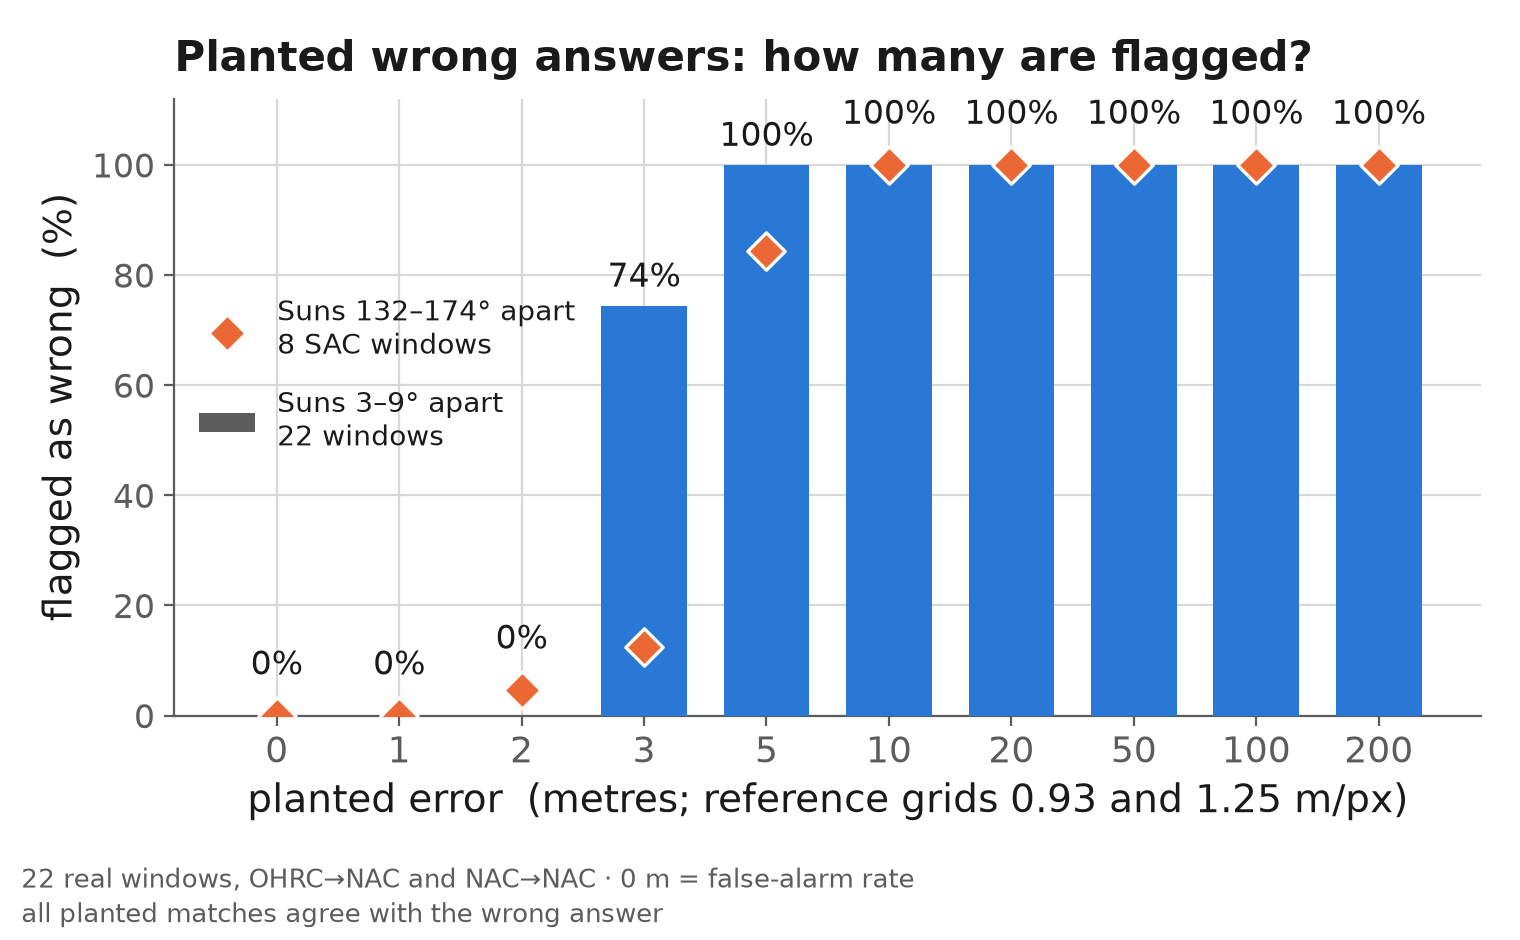
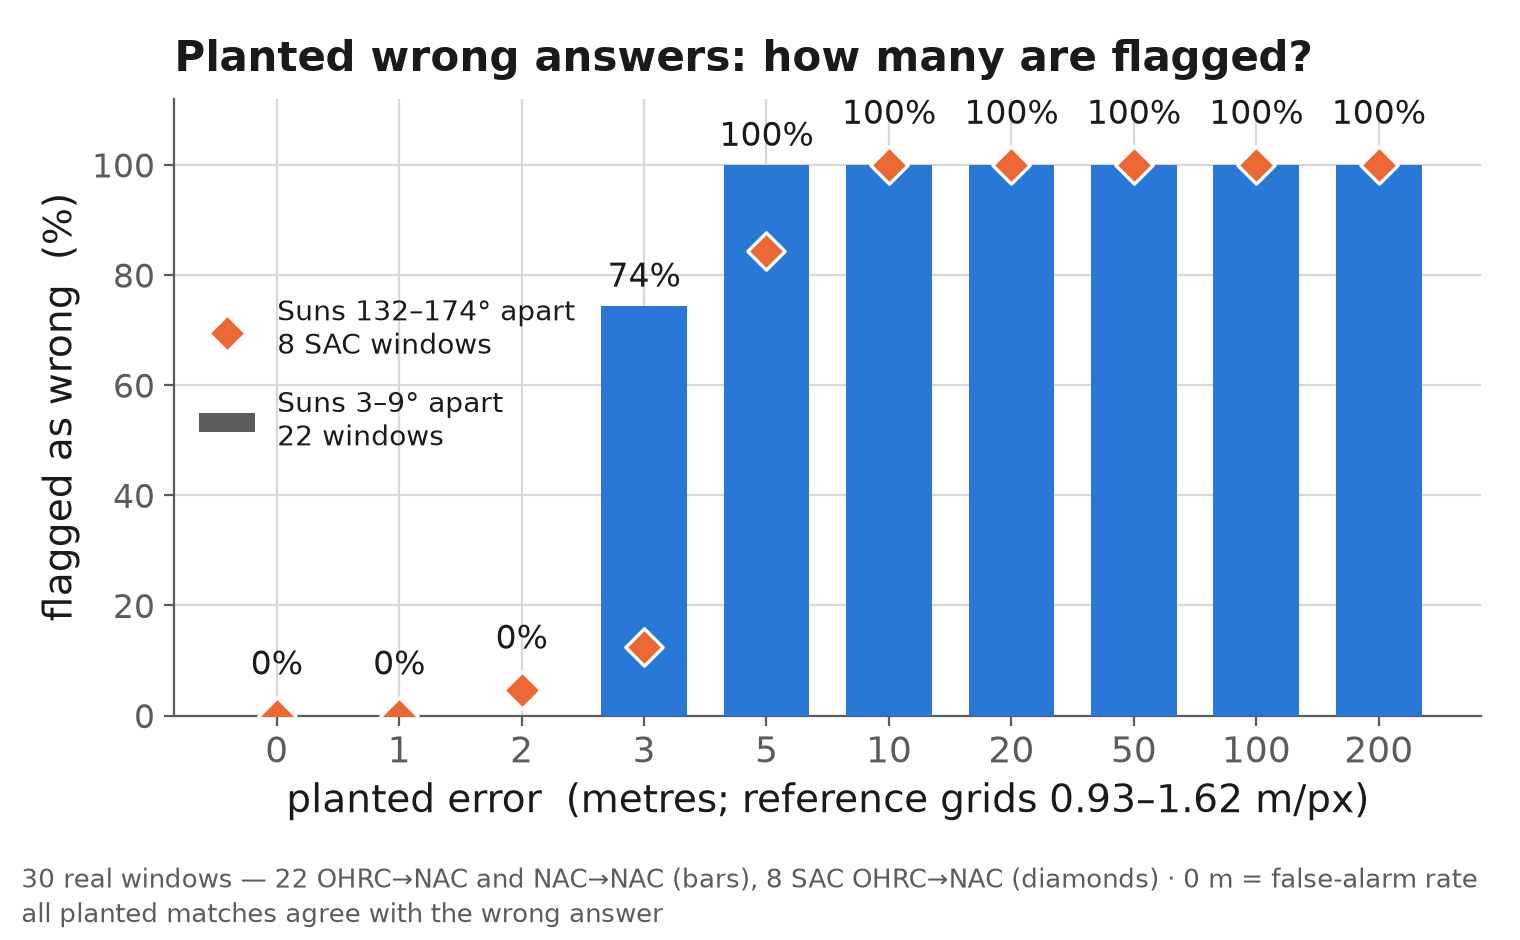
Deck v7: the TMC-2 refusal stated as the standard we hold, not the thing we missed
The PS title names OHRC, TMC and IIRS. We register OHRC well and refuse the
other two; the strongest visible competitor claims both. Slide 4 now says why,
with our own numbers: on OHRC->TMC-2 the matcher kept 6-7 inliers per window at
5-9% coverage, a homography fitted to that handful reports a small in-sample
residual by construction, and the area check measured the alignment 629-1,495 m
wrong and refused all four (REPORT.md:148-151). Six points and their own
residual are not a registration we will ship. Nobody is named; the standard is.

The strategies bullet is now an ordered roadmap - the closer-Sun TMC-2 pass
already identified in the archive, IIRS chained through TMC-2 at intermediate
scale, tile-level transforms with LOLA orthorectification - and says the same
check that refused these will grade the fixes. The pass's azimuth offset is NOT
on the slide: it is not in REPORT.md.

fig6: the x-axis named only the near-Sun bars' grids (0.93 and 1.25) while the
SAC diamonds sit on 1.215 and 1.622 m, and the caption said 22 windows under a
chart of 30. Axis now reads 0.93-1.62; caption counts both populations. Only
fig6 changed - every other figure hash is identical.

Slide 4 body drops to 11 pt and loses its opener (slide 2 already carries 160
windows / 8 pairings) to pay for the argument. AUDIT clean, PDF CHECK clean,
6 pages, 1,094,181 bytes. Evidence untouched.

Changed region(s): [[0.1546, 0.9255, 0.9895, 0.9564], [0.1546, 0.833, 0.9276, 0.8638], [0.0, 0.9255, 0.0309, 0.9564]]

diff --git a/presentation/build_deck.py b/presentation/build_deck.py
@@ -257,40 +257,53 @@ S4 = [
     ("Analysis of the feasibility", 0, True, BLUE),
     # REPORT.md footer, verbatim: "177 registered pairs (160 distinct ground windows)". The two
     # are different counts and the slide must use the noun REPORT uses (claim-checker H1, v4).
-    ("Measured, not designed: 160 distinct ground windows and 8 instrument pairings, on real "
-     "Chandrayaan-2, LRO, Kaguya and LOLA data.", 1, False, INK),
+    
     # "The whole lit overlap, tiled": windows, area, verdicts, held-out median of the accepted
     # and how many are under 3 px (the one that is not is the 316 px window, an inlier-ratio
     # limit of the metric - the deck must not imply 37/37 were all sub-pixel).
-    ("The hardest honest test we could set ourselves — the whole lit, textured overlap of "
-     "one OHRC frame with one NAC at 74 °S, tiled, nothing hand-picked: 37 windows, "
-     "13.1 km², 37/37 accepted, held-out median 0.61 px = 0.57 m on the 0.93 m NAC "
-     "grid. 36 of 37 are under 3 px; the outlier is a low-inlier-ratio window whose image "
-     "evidence (NCC 0.87–0.95) says it is registered, and we print it.", 1, False, INK),
+    ("The hardest honest test we could set: the whole lit, textured overlap of one OHRC frame "
+     "with one NAC at 74 °S, tiled, nothing hand-picked — 37 windows, 13.1 km², 37/37 "
+     "accepted, held-out median 0.61 px = 0.57 m on the 0.93 m NAC grid; 36 of 37 under 3 px, "
+     "and the outlier (a low-inlier-ratio window the image evidence, NCC 0.87–0.95, says is "
+     "registered) is printed, not averaged away.", 1, False, INK),
     # "Sub-pixel accuracy, with the pixel grid named": the synthetic row (0 / 15 deg) and the
     # loop row (px, m, grid). Each names its grid AND its metres (Invariant 2) and says what it
     # is measured against. Loops are consistency, NOT ground accuracy.
         ("Against exact truth (synthetic, LOLA-rendered) on the 60 m grid: 0.086 px = 5.1 m with "
      "the Suns 0–15° apart, degrading to 1.096 px = 65.8 m at 45°. Six three-image loops close "
-     "to 0.107 m on the 1.245 m NAC grid. A "
-     "held-out residual is not ground truth; a loop is consistency, not accuracy.",
+     "to 0.107 m on the 1.245 m NAC grid — consistency, not accuracy, and labelled so.",
      1, False, INK),
     ("Potential challenges and risks", 0, True, ACCENT),
     # "MiLOI" table rows 90-120, 120-180 (all methods); "Real sun-angle sweep" bins 60-90,
     # 90-120. MiLOI's 90 deg is a SUN-VECTOR angle; every other Sun figure on the deck is an
     # azimuth difference, so it is named (claim-checker M4, v4).
     ("The hard band is the field's, not ours: none of the 16 MiLOI pairs with Sun vectors 90° "
-     "or more apart was registered by any method — ours, SIFT, ORB or AKAZE. Our own sweep "
-     "accepts 0 of 12 at 60–120° azimuth, and says so.", 1, False, INK),
+     "or more apart registered under any method — ours, SIFT, ORB or AKAZE. Our sweep accepts "
+     "0 of 12 at 60–120° azimuth, and says so.", 1, False, INK),
     # "Real viewpoint: TMC-2 fore -> aft": held-out median. "... TC -> IIRS": verdict counts.
-    ("Two more we name before a reviewer does: relief parallax is not a homography, so TMC-2 "
-     "fore against aft accepts 1 window of 4; IIRS, 12× coarser at "
-     "89 m per pixel, does not register at all; and OHRC against TMC-2 nadir at 120° of Sun "
-     "azimuth accepts 0 of 4 — every one contradicted and declared.", 1, False, INK),
+    # REPORT.md lines 143-152. The four OHRC -> TMC-2 windows are the strongest thing on this
+    # slide once read the right way round: the matcher DID produce a fit on each (6-7 inliers at
+    # 5-9 % coverage), and a fit like that reports a small in-sample residual by construction -
+    # MAGSAC++ keeps only matches within threshold. The area check measured the alignment
+    # 629-1,495 m wrong. Refusing that is the product working, and it is the standard a judge
+    # should hold every entry to. Said without naming anyone.
+    ("OHRC against TMC-2 nadir, Suns 120° apart: the matcher kept 6–7 inliers per window at "
+     "5–9% coverage — a fit to that handful reports a small in-sample residual by construction. "
+     "The area check measured the alignment 629–1,495 m wrong and refused all four. Six points "
+     "and their own residual are not a registration we will ship; this check is what stops us.",
+     1, True, ACCENT),
+    ("Two more, named before a reviewer does: relief parallax is not a homography, so TMC-2 "
+     "fore against aft accepts 1 window of 4; and IIRS at 12×, 89 m per pixel, does not "
+     "register matched direct.", 1, False, INK),
     ("Strategies for overcoming these challenges", 0, True, BLUE),
-    ("Tile-level local transforms and LOLA orthorectification for relief; a coarse-to-fine "
-     "pyramid and chaining through TMC-2 for the IIRS scale gap. Each answers a failure we "
-     "have already measured.", 1, False, INK),
+    # ops/specs/day_24.md: the one TMC-2 pass over SAC's frame with the Sun near the OHRC's is
+    # identified in PRADAN and is the next run. Its azimuth offset is NOT quoted here because it
+    # is not in REPORT.md (Invariant 1); it goes on the slide the day it is measured.
+    ("Next, in order: the one TMC-2 pass over this frame with the Sun near the OHRC's, already "
+     "identified in the archive; IIRS chained through TMC-2 at intermediate scale instead of "
+     "matched direct at 12×; tile-level local transforms with LOLA orthorectification for "
+     "relief. Each answers a measured failure, and the check that refused these will grade the "
+     "fixes.", 1, False, INK),
 ]
 
 S5 = [
@@ -381,7 +394,7 @@ SLIDES = {
         "fig": ("fig4_pipeline.png", 1.365, 10.6), "fig_top": TOP},
     # Slide 4 is the densest. Narrowing its figure from 5.50 to 5.00 in gives the text column
     # 7.05 in instead of 6.55 - about 8 % more characters per line.
-    4: {"text": [((0.55, TOP, 7.05, BOTTOM - TOP), S4, 14, 11.5)],
+        4: {"text": [((0.55, TOP, 7.05, BOTTOM - TOP), S4, 14, 11)],
         "fig": ("fig5_real_sun_sweep.png", 7.75, 5.00)},
     5: {"text": [(LEFT_COL, S5, 15, 12.5)],
         "fig": ("fig6_trust_real_calibration.png",) + RIGHT_FIG},

diff --git a/presentation/make_figures.py b/presentation/make_figures.py
@@ -746,9 +746,11 @@ def fig_trust_real():
     ds = sorted({float(r["displacement_m"]) for r in rows})
     rate = [np.mean([r["contradicted"] == "True" for r in rows if float(r["displacement_m"]) == d]) for d in ds]
     n = [sum(1 for r in rows if float(r["displacement_m"]) == d) for d in ds]
-    # Every reference grid, not the median: 11 windows are on the 0.931 m NAC grid and 12 on
-    # the 1.245 m one, and the 18 Sep label named only 1.245 (claim-checker, 19 Sep).
-    grids = sorted({float(r["gsd_ref_m"]) for r in rows})
+    # Every reference grid of BOTH populations, as a range. The 19 Sep fix named the two grids
+    # of the near-Sun bars (0.931 / 1.245); the SAC diamonds sit on 1.215 and 1.622 m, so a
+    # judge converting the diamond series with the printed grids got the wrong answer
+    # (claim-checker, 22 Sep).
+    grids = sorted({float(r["gsd_ref_m"]) for r in all_rows})
     fig, ax = plt.subplots(figsize=(7.6, 4.4))
     ax.grid(True, which="major", color=GRID, linewidth=0.8, zorder=0)
     ax.set_axisbelow(True)
@@ -781,8 +783,8 @@ def fig_trust_real():
     ax.set_xticks(xs)
     ax.set_xticklabels([f"{d:g}" for d in ds], fontsize=13)
     ax.set_ylim(0, 112)
-    ax.set_xlabel("planted error  (metres; reference grids " + " and ".join(f"{g:.2f}" for g in grids)
-                  + " m/px)", fontsize=14)
+    ax.set_xlabel(f"planted error  (metres; reference grids {grids[0]:.2f}–{grids[-1]:.2f} m/px)",
+                  fontsize=14)
     ax.set_ylabel("flagged as wrong  (%)", fontsize=14)
     ax.set_title("Planted wrong answers: how many are flagged?",
                  loc="left", fontweight="bold", fontsize=15, pad=10)
@@ -796,8 +798,14 @@ def fig_trust_real():
     except (OSError, ValueError, KeyError):
         n_ground = len(ids)
     n_win = len(ids)
-    wins = f"{n_win} real windows" + (f" ({n_ground} distinct)" if n_ground != n_win else "")
-    fig.text(0.014, 0.008, f"{wins}, OHRC→NAC and NAC→NAC · 0 m = false-alarm rate\n"
+    n_hard = len({r["pair_id"] for r in hard})
+    # The chart plots BOTH populations, so the caption counts both. It said "22 real windows"
+    # under a chart of 30 while slide 2 said 30 (claim-checker, 22 Sep).
+    wins = (f"{n_win + n_hard} real windows — {n_win} OHRC→NAC and NAC→NAC (bars), "
+            f"{n_hard} SAC OHRC→NAC (diamonds)" if hard else
+            f"{n_win} real windows" + (f" ({n_ground} distinct)" if n_ground != n_win else "")
+            + ", OHRC→NAC and NAC→NAC")
+    fig.text(0.014, 0.008, f"{wins} · 0 m = false-alarm rate\n"
              f"all planted matches agree with the wrong answer", fontsize=9.5, color=MUTED,
              linespacing=1.35, va="bottom")
     fig.set_figheight(4.7)

diff --git a/ops/STATUS.md b/ops/STATUS.md
@@ -1,4 +1,23 @@
-# STATUS - 22 September 2026 (Day 25). National round, solo push.
+# STATUS - 22 September 2026 (Day 25), late. National round, solo push.
+
+> **v7: the TMC-2 / IIRS gap, stated as the standard rather than the miss.** The PS title names
+> OHRC, TMC and IIRS; we register OHRC well and refuse TMC-2 (0/4) and IIRS (0/11), and the
+> strongest visible competitor claims both. Slide 4 now says why in their own terms: on
+> OHRC→TMC-2 the matcher kept **6–7 inliers per window at 5–9 % coverage**, a fit to that
+> handful reports a small in-sample residual *by construction*, and the area check measured the
+> alignment **629–1,495 m wrong** and refused all four (`REPORT.md` lines 148–151). The
+> competitor's TMC-2 result is an in-sample RMSE on 5–7 inliers at 5–7 % coverage - the exact
+> regime our check refuses. Nobody is named on the slide; the standard is. The strategies bullet
+> is now an ordered roadmap whose first item is the closer-Sun TMC-2 pass (`ops/specs/day_24.md`).
+> fig6's axis and caption were also fixed (grids 0.93–1.62 across both populations; 30 windows,
+> not 22) - only that figure changed, hash-verified. **1094181 bytes, sha256 `40e2d718…`,
+> `AUDIT: clean`, `PDF CHECK: clean`.** Slide 4 body is 11 pt; that is the floor.
+>
+> **The one evidence move that turns the weak line into a strong one is still yours to make:**
+> the closer-Sun TMC-2 pass needs a PRADAN download (0.6–0.9 GB) only you can do, then ~2 h.
+> Evidence cut-off is Thu 24 Sep 18:00. Either result improves the deck - a second refusal at
+> ~9° of Sun is also publishable. Commands are in `ops/specs/day_24.md` §"The one measurable".
+
 
 > **Deck v6: the pitch pass.** Product work stopped on Samartha's call - the remaining days go to
 > the deck, and gaps get closed after selection. v5 was correct and read like a lab report (278

diff --git a/presentation/DECK_V2_DRAFT.md b/presentation/DECK_V2_DRAFT.md
@@ -19,6 +19,12 @@
 >   figure is 0.62 px on a 1.118 m grid (0.69 m); our best in-sample on that pair is 0.656 px
 >   on a 1.622 m grid (1.06 m). The comparison loses and is not made.
 >
+> - **v7 (22 Sep, late):** slide 4's OHRC→TMC-2 line now carries its own evidence - 6–7
+>   inliers per window, 5–9 % coverage, alignment 629–1,495 m wrong by the area check, all four
+>   refused (`REPORT.md` 148–151) - and the strategies bullet is an ordered roadmap. The
+>   "Measured, not designed: 160 / 8" opener was dropped from slide 4 (slide 2 carries both
+>   figures). fig6: axis grids now 0.93–1.62 (both populations); caption counts 30 windows.
+>
 > PDF as shipped: 1091396 bytes, sha256 `3ddae7ce...`, `AUDIT: clean`, `PDF CHECK: clean`.
 
 ---
